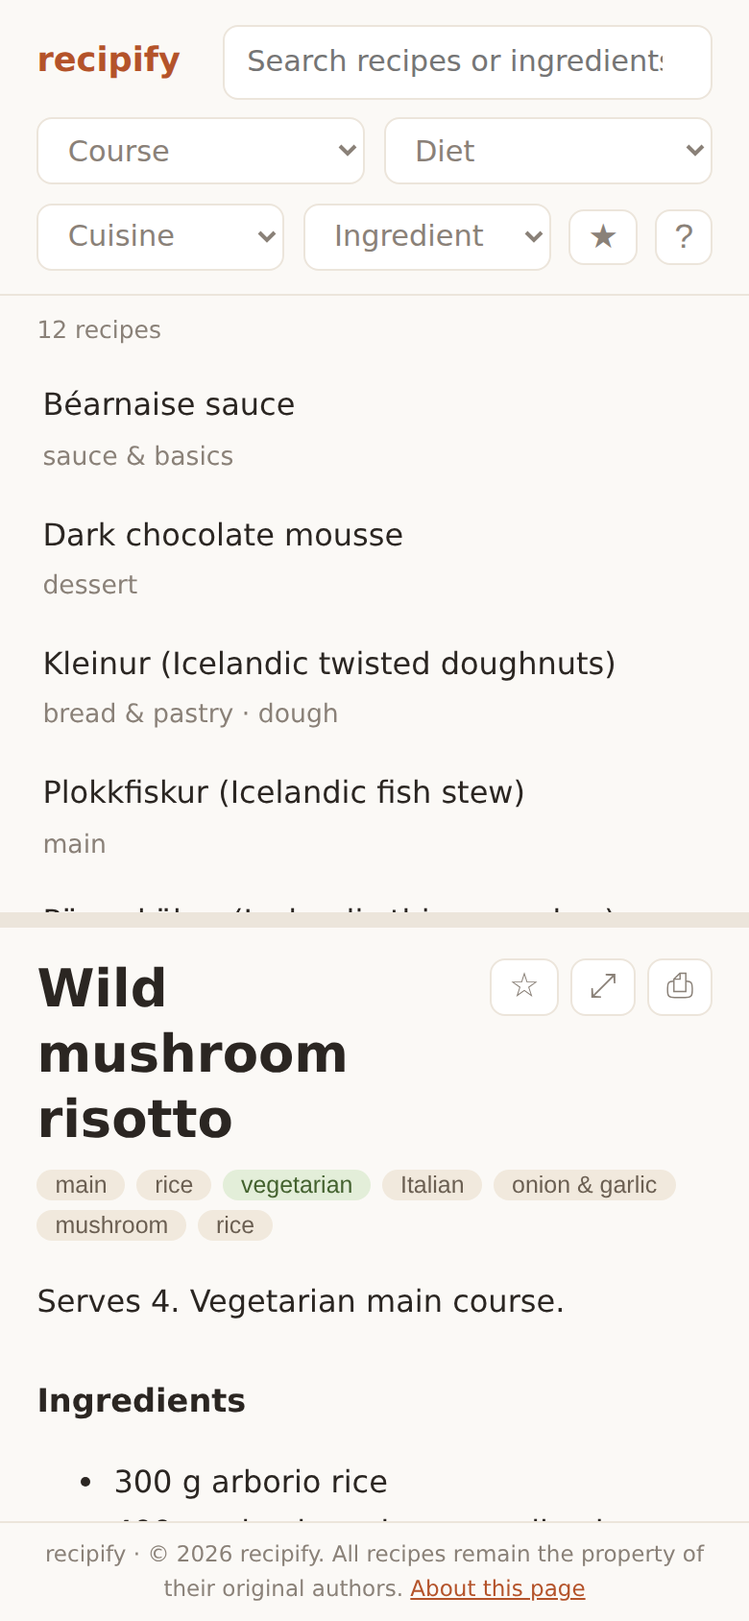
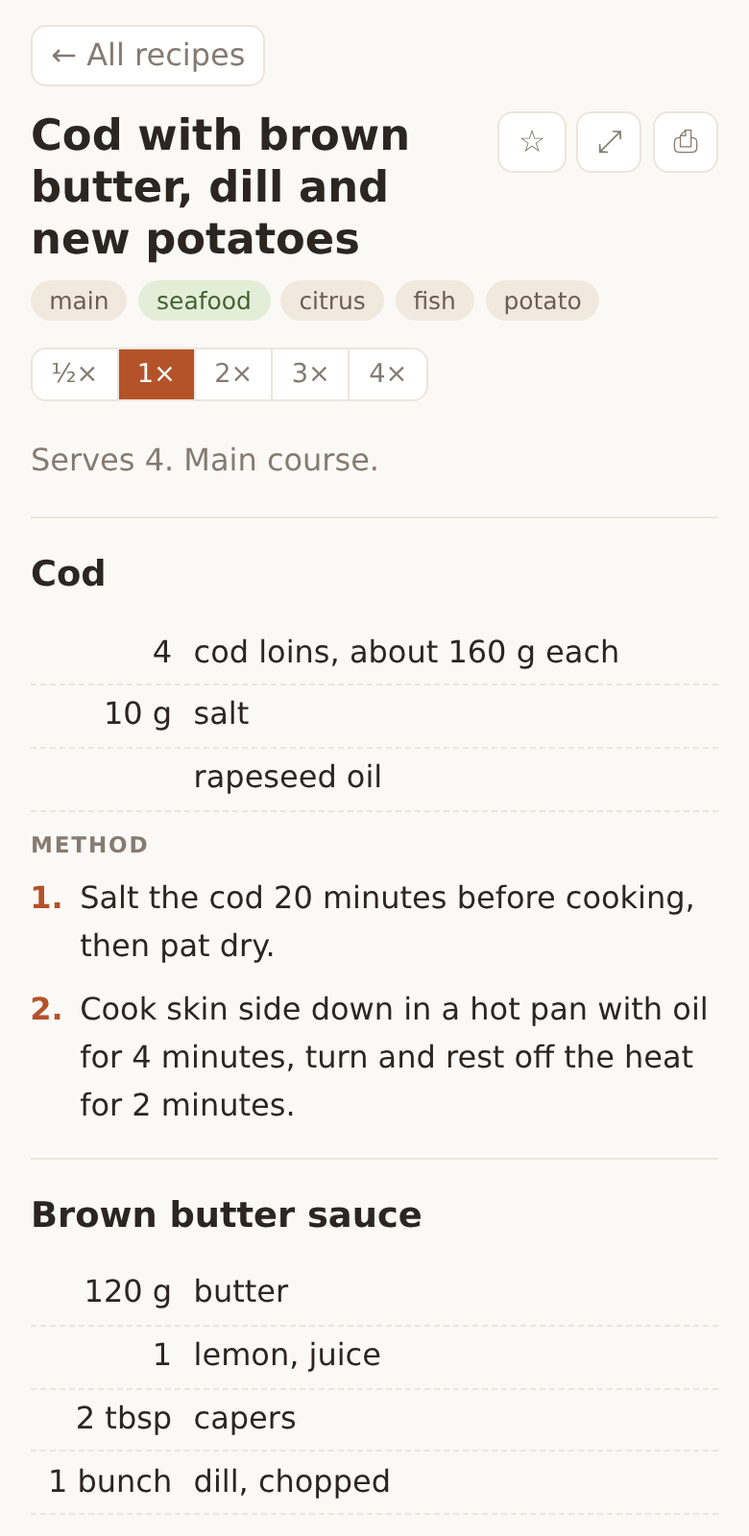
docs: document the pipeline, its checks and results

diff --git a/README.md b/README.md
@@ -5,132 +5,147 @@
 [![Python 3.12+](https://img.shields.io/badge/python-3.12%2B-blue)](pyproject.toml)
 [![License: MIT](https://img.shields.io/badge/license-MIT-green)](LICENSE)
 
-**Turn a messy folder of recipe files into clean, versioned markdown and a single-file recipe viewer you can share privately, even to phones.**
+**A document-processing pipeline that turns a kitchen's archive of recipe files into verified, structured recipes, and publishes them as one offline HTML file that chefs can cook from.**
 
-recipify started with a real problem: a professional kitchen's recipe archive of almost 2,000 files collected over many years. It held text PDFs, scanned notebooks with handwriting, Word documents, spreadsheets, photos, EPUB cookbooks and the occasional corrupted file, mostly in Icelandic. recipify sorts that archive by how hard each file is to read, converts everything it can to markdown without overwriting anything, and builds one HTML file that chefs can open on any device to search the collection.
+recipify started from a real archive: about 1,900 files collected over many years by a professional kitchen, mostly in Icelandic. It holds Word documents, PDFs exported from Word (often laid out in two or three columns), scanned notebooks, photos, spreadsheets, cookbooks, menus, cleaning plans and many copies of the same files. Out of that archive, recipify publishes **380 recipes that were checked word for word against their source documents**. It holds back everything it can't check yet, and the report says why for each document.
 
-**[Live demo](https://steinnhm.com/recipify/demo/)** (built from the sample recipes in [`examples/`](examples/recipes))
+**[Live demo](https://steinnhm.com/recipify/demo/)**: the whole pipeline run in CI on the [sample documents](examples/sources) ([pipeline report](https://steinnhm.com/recipify/demo/report.md))
 
 <p align="center">
-  <img src="docs/screenshot-desktop.png" alt="recipify viewer on desktop: recipe list, filters and a recipe" width="72%">
+  <img src="docs/screenshot-desktop.png" alt="A three-component recipe scaled to 2x, with one ingredient ticked off" width="72%">
   &nbsp;
-  <img src="docs/screenshot-mobile.png" alt="recipify viewer on a phone" width="22%">
+  <img src="docs/screenshot-mobile.png" alt="The same viewer on a phone" width="22%">
 </p>
 
-## Highlights
+## The pipeline
 
-- **Sorts files by how hard they are to extract.** Each file gets a category: readable PDFs, scanned PDFs, Word documents, images, spreadsheets, legacy Office files, EPUB books, empty or corrupted files. This decides which files are free to process and which need paid OCR.
-- **Converts locally first.** pypdf, python-docx, openpyxl, LibreOffice and a standard-library EPUB reader handle everything that has a text layer. Only scans and photos go to OCR (Mistral), or to a vision model through `register`.
-- **Never overwrites output.** Every run writes a complete, timestamped output tree with a `metadata.json` snapshot and a `CHANGELOG.md`. Unchanged files (same SHA-256) are carried forward rather than converted again, so no OCR call is ever paid for twice. Original files are never modified.
-- **Scores quality and flags files for review.** A heuristic accuracy score (non-words, broken spacing, mojibake, very short text) puts weak extractions on a manual-review list.
-- **Adds labels.** Titles, course, dish, diet, cuisine and main ingredients are detected with transparent heuristics (Icelandic and English), with manual overrides in `curation.json`. Cleanup steps (`tidy`, `spelling`) each produce a new version, so the raw extraction is always kept.
-- **One HTML file with no dependencies.** The viewer has instant diacritic-insensitive search, filters with live counts, favourites, per-recipe notes, printing, a resizable split view and a focus mode. Everything is embedded in the file and it works offline.
-- **Readable even without JavaScript.** iOS and macOS open local HTML files in Quick Look, which doesn't run scripts. The recipes are therefore written into the page as plain HTML with a course index, and the script builds the interactive app on top of that wherever JavaScript runs.
-- **Private sharing on a public host.** `recipify lock` encrypts the viewer (AES-256-GCM, PBKDF2-SHA256), and GitHub Pages serves it. The key goes in the link's `#fragment`, which browsers never send to the server.
-
-## How it works
-
-```text
-recipes/ ──classify──▶ process / register ──▶ outputs/<run-id>/
-   │                      (local extractors,     ├── metadata.json   full snapshot: sources, versions, quality, labels
-   │                       OCR, vision)          ├── CHANGELOG.md    summary + "needs manual review"
-   │                                             └── <category>/<slug>.md
-   ├─ sort    copy into sorted/<category>/ (originals untouched)
-   └─ rename  write rename_plan.sh to review (nothing is renamed)
-
-outputs/ ──enrich / tidy / spelling──▶ new versions (raw always kept)
-outputs/ ──build──▶ viewer (single HTML) ──lock──▶ site/index.html (encrypted) ──▶ GitHub Pages
+```mermaid
+flowchart LR
+    S[("sources<br/>docx, pdf, xlsx,<br/>scans, photos")] --> I["1 inventory<br/>hash · classify · triage"]
+    I --> E["2 extract<br/>poppler · python-docx ·<br/>LibreOffice · OCR*"]
+    E --> T["3 structure<br/>rules · LLM*"]
+    T --> A{"4 assess<br/>word-for-word check"}
+    A -- ready --> V["5 viewer<br/>one HTML file"]
+    A -- review / excluded --> R["report.md<br/>with reasons"]
+    V --> L["lock<br/>AES-GCM"] --> P["GitHub Pages"]
 ```
 
-| Category | Processing |
-| --- | --- |
-| `readable_pdfs` | local text extraction (pypdf) |
-| `docx_files` | local conversion (python-docx: headings, lists, tables) |
-| `image_based_pdfs`, `image_files` | Mistral OCR, or a vision transcription stored with `register` |
-| `spreadsheets` | openpyxl (`.xls` via LibreOffice), one markdown table per sheet |
-| `legacy_office` (`.doc`, `.odt`, `.pptx`) | LibreOffice headless conversion |
-| `epub_books` | standard-library EPUB reader |
-| `empty_or_corrupted`, `ignored`, `other_formats` | skipped, with the reason recorded |
+<sub>\* paid API stages, opt-in: they only run when asked for, and never twice for the same document</sub>
+
+| Stage | What it does | Stored as |
+| --- | --- | --- |
+| **1 Inventory** | Hashes every file, classifies it by its content rather than its extension (a `.pdf` can be a Word file or an EPUB), merges identical copies and triages each document as a recipe, a book (EPUB, or more than 8 pages) or reference material (mise en place lists, menus, staff rules). | `inventory.json` |
+| **2 Extract** | Gets the text out locally and for free. PDFs use poppler in content-stream order, so each component of a multi-column recipe stays together, and the result is cross-checked against poppler's layout rendering. Word documents are read from the XML, including the text boxes that python-docx skips. Scans and photos wait for OCR. | `extractions/<sha256>/<engine>@v<N>.json` |
+| **3 Structure** | Splits the text into components (a sauce, a crumble, a dough), each with its ingredients, method steps and notes, and parses quantities so they can be scaled. A deterministic rule set does this by default; an LLM with a JSON schema is an opt-in fallback for layouts the rules can't follow. | `recipes/<sha256>/<engine>@v<N>.json` |
+| **4 Assess** | Counts every word and number in the extracted text and in the structured recipe, and checks them against each other. It also checks reading order, garbled text, whether there is an ingredient list and a method, and how long the document is. A document is `ready` only when every check passes. | `catalog.json`, `report.md` |
+| **5 Publish** | Builds one self-contained HTML file from the `ready` recipes, and optionally encrypts it for public hosting. | `dist/index.html`, `site/index.html` |
+
+### Why it can be trusted
+
+- **Nothing is rewritten.** The structurer only decides what each source line is: a component name, an ingredient, a step or a note. It never changes the text. The few lines it leaves out on purpose (a repeated title, step numbers the viewer draws itself) are listed in the artifact.
+- **Every published recipe is proven complete.** For text-layer documents the extracted text *is* the document. Recall 1.0 (every source word is shown) and precision 1.0 (no word was added) mean the reader sees exactly what the original says, only easier to follow. An LLM goes through the same check, so a paraphrase or an "improved" quantity sends the recipe to review instead of into the app.
+- **Two extractors must agree on reading order.** A PDF whose text order doesn't match its visual layout is held back, even if every word is present.
+- **Hard cases are named, not hidden.** [`report.md`](https://steinnhm.com/recipify/demo/report.md) lists every document that is not ready, with the reason.
+
+### Why it is cheap to re-run
+
+- Every artifact is keyed by the source's SHA-256 and the engine's version. Re-running the pipeline skips everything that is already done, renamed files keep their results, and an interrupted run resumes where it stopped.
+- A new engine version writes a new file beside the old one, so earlier results are never overwritten.
+- Paid results (OCR, LLM calls, hand transcriptions) are never recomputed automatically, not even with `--force`. Duplicates share one result.
+- On the real archive, a full free run takes about 16 seconds once the files have been hashed.
+
+### Results on the real archive
+
+| | Documents |
+| --- | ---: |
+| Source files | 1,916 |
+| Unique documents (byte-identical copies merged) | 930 |
+| **Ready**: verified, structured and published | **380** |
+| Review: converted, but a check failed (no clear ingredient list, uncertain reading order, read from images) | 73 |
+| Waiting for OCR (photos and scans) | 325 |
+| Not recipes, or not yet: books, collections, course material, menus and other paperwork, PDF twins of Word files | 152 |
+
+## The viewer
+
+The viewer is one HTML file with no external requests, so it works offline and can be emailed.
+
+- **Recipes in components:** each component lists its quantities in an aligned column next to numbered steps. The source's own labels ("Aðferð", "Hráefni") are kept as headings.
+- **Built for cooking:** scale ½× to 4× (baker's percentages stay as they are), tick off ingredients and steps, and switch to a full-screen reading view on phones. Recipes can also be printed.
+- **Finding recipes:** search that ignores accents, filters with live counts, and course, diet, cuisine and main-ingredient labels detected with [transparent keyword rules](src/recipify/labels.py). Favourites and notes are saved in the browser.
+- **Readable without JavaScript:** every recipe is written into the page as plain HTML. iOS Quick Look and mail previews, which don't run scripts, still show the whole collection.
+- **Private on a public host:** `recipify lock` encrypts the page (AES-256-GCM, PBKDF2-SHA256), and the key travels in the link's `#fragment`, which browsers never send to the server.
 
 ## Quick start
 
-Requires Python 3.12+ and [uv](https://docs.astral.sh/uv/).
+Requires Python 3.12+, [uv](https://docs.astral.sh/uv/) and poppler (`apt install poppler-utils` or `brew install poppler`).
 
 ```bash
 git clone https://github.com/steinnhauser/recipify.git && cd recipify
 uv sync
-uv run recipify demo --out demo.html     # build the viewer from the sample recipes
-open demo.html                           # or double-click it
+uv run recipify demo --out demo.html --report report.md   # the whole pipeline on examples/sources
+open demo.html
 ```
 
-### Processing your own collection
-
-Put your files in `recipes/` (it is git-ignored, along with all outputs). Then run:
+### Your own collection
 
 ```bash
-uv run recipify classify                         # summary table of categories
-uv run recipify process -c docx_files            # convert locally (free)
-uv run recipify process -c image_files --limit 5 # OCR, needs MISTRAL_API_KEY in .env
-uv run recipify enrich                           # titles + labels (new version)
-uv run recipify tidy && uv run recipify spelling # reader-ready text (new versions)
-uv run recipify build                            # viewer/vNNN/recipes.html
+uv run recipify --sources path/to/files run   # inventory, extract, structure, catalog (all free)
+uv run recipify build                         # dist/index.html with every ready recipe
+uv run recipify show "Desserts/Ostakaka.pdf"  # one document: tier, reasons, structured recipe
 ```
 
-`process` converts only new or changed files; `--force` makes a new version of everything. To store a transcription made outside the pipeline (for example by a vision model), use `uv run recipify register SOURCE... --markdown file.md --processor <name> [--accuracy 0-1]`. `uv run recipify --help` lists every command.
+Each stage can also run on its own (`inventory`, `extract`, `structure`, `catalog`, `build`). The paid stages are opt-in and should be piloted with `--limit`. They need `MISTRAL_API_KEY` in `.env`:
 
-## Sharing privately with GitHub Pages
+```bash
+uv run recipify extract --ocr --limit 5                          # OCR for scans and photos
+uv run recipify structure --engine mistral-llm --review-only --limit 5
+uv run recipify register "Scans/notebook.pdf" --text notebook.md --engine manual --accuracy 0.9
+```
 
-The plain viewer is never committed. Instead:
+Corrections that don't belong in code (a better title, a kind, a tier set after review) go in `data/curation.json`. Everything under `data/` is git-ignored.
+
+### Publishing privately
 
 ```bash
 echo 'ENCRYPTION_KEY="<a long random string>"' >> .env
-uv run recipify lock path/to/recipes.html --show-link \
-    --base-url https://<user>.github.io/<repo>/  # writes site/index.html (encrypted), prints the share link
-git add site/index.html && git commit -m "Update collection" && git push
+uv run recipify lock dist/index.html --show-link   # writes site/index.html (only ciphertext), prints the link
 ```
 
-Every push to `main` runs [`ci.yml`](.github/workflows/ci.yml), and once the checks pass, its deploy job publishes the site. The job refuses to publish any root page that isn't encrypted, checks that the page opens with the `ENCRYPTION_KEY` repository secret (if set), builds the public demo, adds the coverage report and deploys. To redeploy without a new commit, run the workflow by hand from the Actions tab.
-
-When someone opens the link, the page takes the key out of the address bar, decrypts in the browser with WebCrypto and remembers the key on that device. Visitors without the key see a key prompt.
-
-**What this protects:** the recipe text on GitHub, in the repository and in the Pages site, which only ever hold ciphertext. **What it doesn't:** anyone you send the link to can forward it. To revoke access, change the key, run `lock` again, push, and send the new link.
-
-## Design decisions
-
-- **Versioned output trees instead of in-place updates.** Every run is a complete, self-contained snapshot, so you can always compare versions, roll back, and see when and how each file was converted. Carrying unchanged files forward keeps runs cheap.
-- **Local-first, cost-aware OCR.** Paid OCR only runs when explicitly asked for (`-c image_files`, `--limit`). Everything with a text layer is converted for free.
-- **Single-file HTML over PDF or Excel.** PDF only offers basic find-in-page and Excel is poor for long free text on a phone. One HTML file gives real search and filters, opens anywhere, and can be emailed.
-- **Progressive enhancement.** The page is plain HTML first, so it stays readable in previews that don't run scripts (iOS Quick Look, Mail and Messages attachments).
-- **Heuristics over a black box.** Labels and quality scores come from readable rules ([`labels.py`](src/recipify/labels.py), [`quality.py`](src/recipify/quality.py)) and can be overridden by hand, which matters when people rely on diet labels.
+On `main`, [CI](.github/workflows/ci.yml) refuses to deploy a root page that isn't encrypted. It also checks that the page opens with the `ENCRYPTION_KEY` secret, runs the pipeline on the sample documents for `/demo/`, and publishes the coverage report.
 
 ## Project layout
 
 ```text
 src/recipify/
-  cli.py                 Typer CLI (classify, sort, rename, process, register, enrich, tidy, spelling, build, demo, lock)
-  classify.py            category detection (PDF text layer, file signatures, empty/corrupt files)
-  extractors/            pdf, docx, office (openpyxl / LibreOffice), epub, ocr (Mistral)
-  pipeline.py            runs, carry-forward versioning, processing
-  metadata.py            metadata.json schema and snapshots
-  quality.py             language detection and accuracy heuristics
-  labels.py, tidy.py, spelling.py   enrichment and cleanup passes
-  viewer.py              viewer builder (+ viewer_template.html)
-  lock.py                encryption for publishing (+ locked_template.html)
-examples/recipes/        sample recipes for the demo (one folder per course)
-site/                    published to GitHub Pages (encrypted collection; demo and coverage report built in CI)
+  cli.py                one command per stage, plus run, show, demo and lock
+  models.py, store.py   typed stage artifacts (pydantic) and the content-addressed workspace
+  pipeline.py           runs the stages: caching, costly-result protection, run log
+  classify.py           file categories from content (poppler, zip sniffing, image headers)
+  inventory.py          stage 1: hashing, de-duplication, triage
+  extract/              stage 2: pdf (poppler), docx (XML walker), office (LibreOffice, openpyxl), ocr (Mistral)
+  structure/            stage 3: rules.py (deterministic), llm.py (Mistral, JSON schema), quantities.py
+  assess.py             stage 4: fidelity check, text quality, language, tiers
+  labels.py, report.py  titles, labels and report.md
+  viewer.py, lock.py    stage 5: the viewer and its encryption (templates/)
+examples/
+  recipes/              the sample recipes, written for this project (markdown)
+  make_sources.py       turns them into realistic documents in examples/sources/
+tests/                  unit tests per stage and an end-to-end run on examples/sources
 ```
+
+More detail on the design and the checks is in [docs/pipeline.md](docs/pipeline.md).
 
 ## Development
 
 ```bash
 uv sync
-uv run pytest
-uv run pytest --cov --cov-report=html          # coverage report in htmlcov/index.html
-uv run ruff check src tests && uv run ruff format --check src tests
-uv run mypy src
+uv run pytest --cov                    # 100% line coverage; CI fails below that
+uv run ruff check src tests examples && uv run ruff format --check src tests examples
+uv run mypy src                        # strict
+uv run pre-commit install              # optional: the same checks before each commit
 ```
 
-CI runs all of these on Python 3.12 and 3.13, and fails if test coverage drops below 96%. The coverage report from each run is attached to it as the `coverage-report` artifact, and the report for `main` is published at [steinnhm.com/recipify/coverage](https://steinnhm.com/recipify/coverage/).
+CI runs these on Python 3.12 and 3.13 with poppler installed.
 
 ## License
 

diff --git a/docs/pipeline.md b/docs/pipeline.md
@@ -1,0 +1,108 @@
+# Pipeline design
+
+This document explains how recipify decides that a recipe can be trusted, and how it stores progress so that expensive work is never repeated. The [README](../README.md) gives the overview.
+
+## Goals
+
+1. **Faithful.** A published recipe says exactly what its source document says, with nothing lost, corrected or invented, laid out so it is as easy to follow as the original.
+2. **Honest about difficulty.** Some documents are easy wins (a Word file or a PDF exported from one). Others need OCR, are whole books, or are not recipes at all. The pipeline sorts them and says why.
+3. **Cheap to re-run.** Every key step is stored. Re-running skips finished work, and paid work (OCR, LLM calls, hand transcriptions) is never done twice.
+
+## Artifacts and caching
+
+```text
+data/
+  inventory.json                          every source file: sha256, category, kind, pages, copies
+  extractions/<sha256>/poppler@v2.json    text per document and engine version
+  extractions/<sha256>/vision-transcription@v1.json
+  recipes/<sha256>/rules@v1.json          structured recipe per structurer version
+  catalog.json                            every unique document with its assessment
+  report.md                               the human-readable summary and review list
+  runs.jsonl                              one line per stage run: counts, seconds, API usage
+  curation.json                           manual overrides (titles, labels, kind, tier)
+```
+
+- **Keyed by content.** Artifacts are keyed by the source's SHA-256, so identical copies share one result and a renamed file keeps its results.
+- **Versioned.** Every engine has a version. A change that alters output bumps it, and the new results are written beside the old ones instead of replacing them.
+- **Costly results are protected.** They carry `costly: true` and are never recomputed automatically.
+- **Typed.** The records are pydantic models ([`models.py`](../src/recipify/models.py)), written atomically, so a crash never leaves half an artifact behind.
+
+## Stage 1: inventory
+
+[`classify.py`](../src/recipify/classify.py) reads file content, not just names:
+
+- A PDF is checked for a text layer with poppler.
+- A `.pdf` that is really a zip is sniffed as Word or EPUB.
+- Images are recognised by their magic bytes.
+
+[`inventory.py`](../src/recipify/inventory.py) then:
+
+- merges byte-identical copies, keeping the copy without "(2)" or "copy" in its path;
+- triages each document as a **recipe**, a **book** (EPUB, or more than 8 pages) or **reference** material (mise en place lists, menus, staff rules, cleaning plans, by name).
+
+## Stage 2: extract
+
+| Category | Engine | Notes |
+| --- | --- | --- |
+| PDF with a text layer | `poppler` | `pdftotext -raw` keeps the order in which the document was written. Word draws each column of a multi-column recipe in turn, so components stay together. `-layout` mode renders the same pages visually. |
+| Word (`.docx`) | `python-docx` (own XML walker) | Reads text boxes (common in recipe templates; python-docx skips them), keeps soft line breaks, skips Word's duplicate fallback content, and doesn't repeat merged table cells. |
+| `.doc`, `.odt`, `.pptx` | `libreoffice` | Converted to docx or PDF, then read as above. |
+| Spreadsheets | `openpyxl` | One line per row. |
+| Scans, photos | `mistral-ocr` (opt-in, paid), or `register` | A transcription made by hand or by a vision model can be stored with `recipify register`. |
+
+**Reading-order check.** Every line from the raw extraction must appear, whole, in the layout rendering of the same pages. On the real archive the two agree on every line for 349 of 356 short PDFs. The rest are PDFs whose text is stored in fragments. They go to review rather than risking a recipe with lines in the wrong order.
+
+## Stage 3: structure
+
+[`structure/rules.py`](../src/recipify/structure/rules.py) reads a document as a sequence of components:
+
+```text
+[name]  [ingredient label]  ingredient lines  [method label]  steps  [notes]
+```
+
+The parser is a small state machine (`start`, `ingredients`, `method`) with a few explicit rules:
+
+- **Quantities.** A line that starts with a quantity, or ends with one and a unit ("Rolled oats 250 g"), is an ingredient. Oven settings ("140°C, vifta 2"), dates and multiplications are not.
+- **Component names.** A short line directly followed by a quantity is a component name (strong evidence). A short line followed by a list of bare ingredients and then a method label is one too (weak evidence). A short line followed by prose names a component that has only a method ("Beetroot / The beetroots are baked whole…").
+- **Labels and notes.** The source's own labels ("Aðferð:", "Hráefni", "Method") are kept and shown as headings. "Geymsluþol: 4 dagar." becomes a note, even when the PDF wrapped it over two lines.
+- **Wrapped lines.** Lines wrapped in the middle of a sentence are joined back into one step. Step numbers and bullets become list markers.
+- **Dropped lines.** A title repeated at the top or after a page break is dropped, and recorded in `Recipe.dropped`.
+
+The parser never edits text. Each source line ends up in exactly one place, which is what makes the fidelity check below meaningful.
+
+[`structure/llm.py`](../src/recipify/structure/llm.py) is an opt-in fallback for layouts the rules can't follow:
+
+- It calls Mistral with temperature 0 and a strict JSON schema generated from a pydantic model.
+- The prompt asks it to copy every line verbatim.
+- Its output gets no special trust: it goes through the same assessment, and when both a rules result and an LLM result exist for the same text, the catalog keeps whichever passes more checks, preferring the rules on a tie.
+
+## Stage 4: assess
+
+[`assess.py`](../src/recipify/assess.py) computes, for every structured recipe:
+
+- **Fidelity (recall).** The share of the source's words and numbers that the reader sees, counted as a multiset after case folding.
+- **Precision.** The share of the shown words that occur in the source. A paraphrase, a correction or an invented quantity lowers it.
+- **Reading-order agreement** from stage 2.
+- **Text quality:** non-words, broken spacing and mojibake.
+- **Structure:** at least two ingredients, at least two of them measured, and at least one step. Less than 40% of the words may sit outside the lists and steps.
+- **Size:** at least 25 words. A document over 3,000 words is a collection, not one recipe.
+- **Course material:** school assignments, with student and teacher names, are excluded.
+
+A recipe is **ready** only if every check passes. Recall and precision must both be exactly 1.0.
+
+The catalog then:
+
+- merges *twins*, the same recipe saved as a `.docx` and as its PDF export (same title, at least 90% of words shared), keeping the Word file;
+- gives different recipes that share a title ("Þorskur") their file or folder name, so they can be told apart in the list.
+
+## Stage 5: publish
+
+[`viewer.py`](../src/recipify/viewer.py) writes every ready recipe into one HTML page as plain markup: components, an ingredient list with parsed amounts in `data-` attributes, and numbered steps. The inline script turns that into the app. It adds search, filters, scaling, ticking off ingredients and steps, favourites and notes, and a full-screen reading view on phones. Without JavaScript, the page is still a complete, readable index.
+
+[`lock.py`](../src/recipify/lock.py) encrypts the page with AES-256-GCM, using a key derived with PBKDF2-SHA256. The browser decrypts it with WebCrypto, using the key from the link's `#fragment`.
+
+## What is not done yet
+
+- **Scans and photos (325 documents).** The pipeline is ready (`extract --ocr`, `register`), but there is no text layer to check against. An OCR or vision transcription can only reach `review` until a person has checked it.
+- **Books and collections.** They need splitting into single recipes before they can be checked one by one.
+- **Spreadsheets.** Costing and yield sheets need a table-aware structurer.

diff --git a/CHANGELOG.md b/CHANGELOG.md
@@ -1,0 +1,18 @@
+# Changelog
+
+## 0.3.0
+
+recipify is now a staged pipeline that verifies every recipe it publishes.
+
+- **Stages with stored artifacts.** Inventory, extract, structure, assess and publish are separate stages. Each writes typed JSON artifacts keyed by the source's SHA-256 and the engine version, and a run log. These replace the full-copy output trees.
+- **Structured recipes.** A deterministic structurer splits each document into components with ingredients, parsed quantities, method steps and notes, and keeps the source's own labels. An LLM structurer (Mistral, JSON schema) is available as an opt-in fallback.
+- **Word-for-word verification.** A recipe is published only when every word and number of the source appears in it and nothing was added, its reading order agrees between two extraction modes, and it has a real ingredient list and method. Everything else goes to `review` or `excluded`, with reasons in `report.md`.
+- **Better extraction.** PDFs are read with poppler in content-stream order, which keeps the components of multi-column recipes together. Word documents are read from the XML, including text boxes.
+- **Triage.** Books, collections, course material, menus and other kitchen paperwork are recognised and held back. Identical copies and `.docx`/`.pdf` twins are merged.
+- **New viewer.** Recipes are shown in components, with aligned quantities, scaling from ½× to 4×, ticking off ingredients and steps, a full-screen reading view on phones, and dark mode.
+- **Real sample documents.** The demo is built by running the pipeline on generated Word, PDF, image and spreadsheet files.
+- **Removed:** `sort`, `rename`, `tidy`, `spelling`, the EPUB extractor and the pypdf and markdown-it-py dependencies.
+
+## 0.2.0
+
+Versioned markdown output, local extractors, OCR, labels, the single-file viewer and encrypted publishing.
